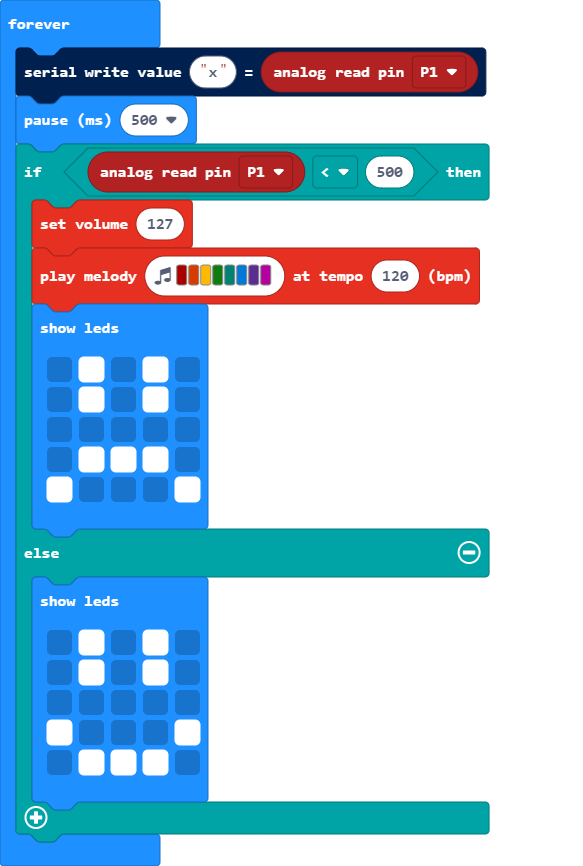
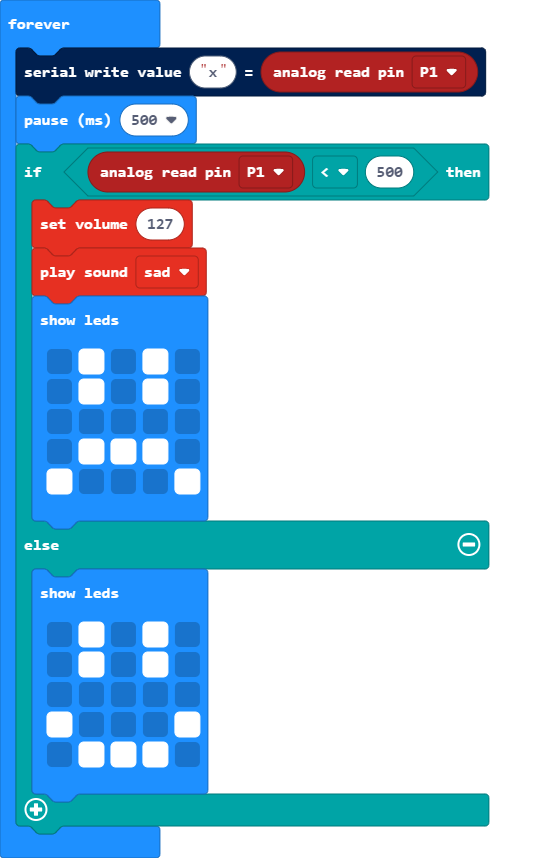
Update main.blocks, main.ts

Changed region(s): [[0.0, 0.0, 0.9168, 0.9697], [0.8281, 0.9091, 0.9168, 0.9697], [0.2662, 0.9394, 0.2957, 1.0]]

diff --git a/main.ts b/main.ts
@@ -3,7 +3,7 @@ basic.forever(function () {
     basic.pause(500)
     if (pins.analogReadPin(AnalogPin.P1) < 500) {
         music.setVolume(127)
-        music.playMelody("C5 B A G F E D C ", 120)
+        soundExpression.sad.play()
         basic.showLeds(`
             . # . # .
             . # . # .
